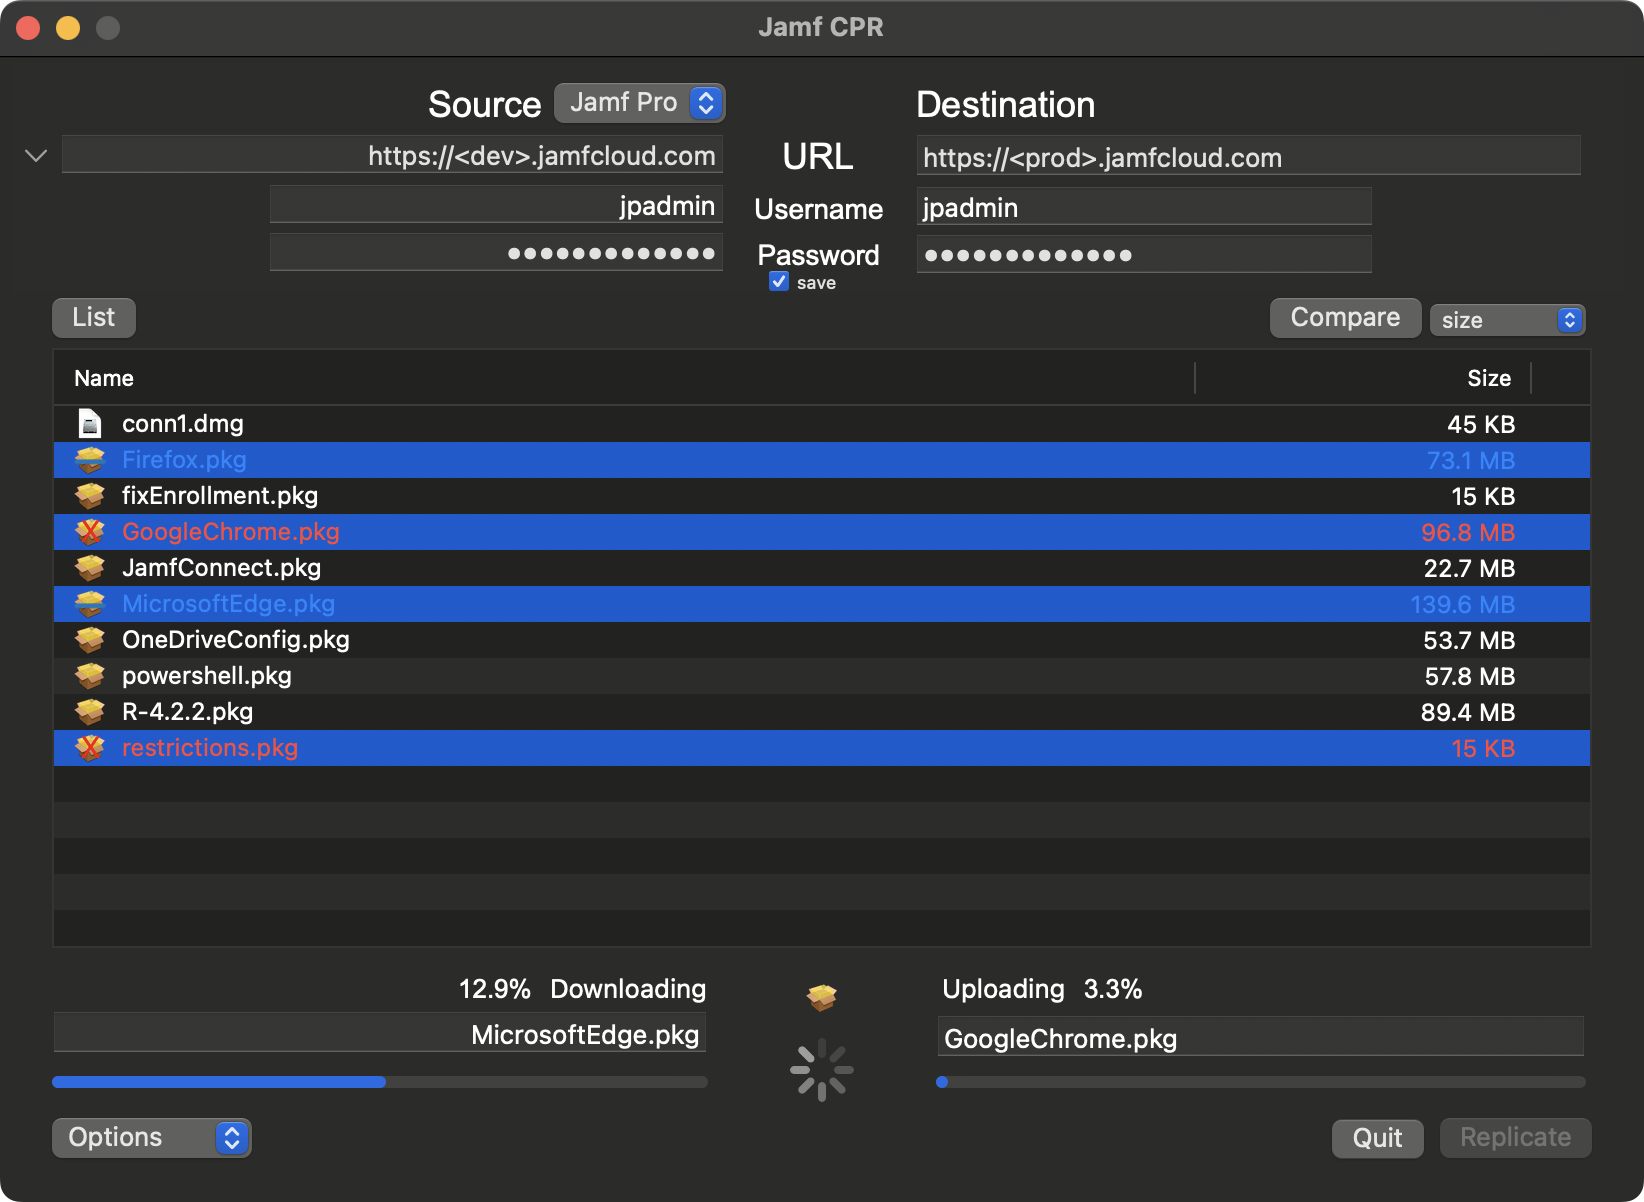
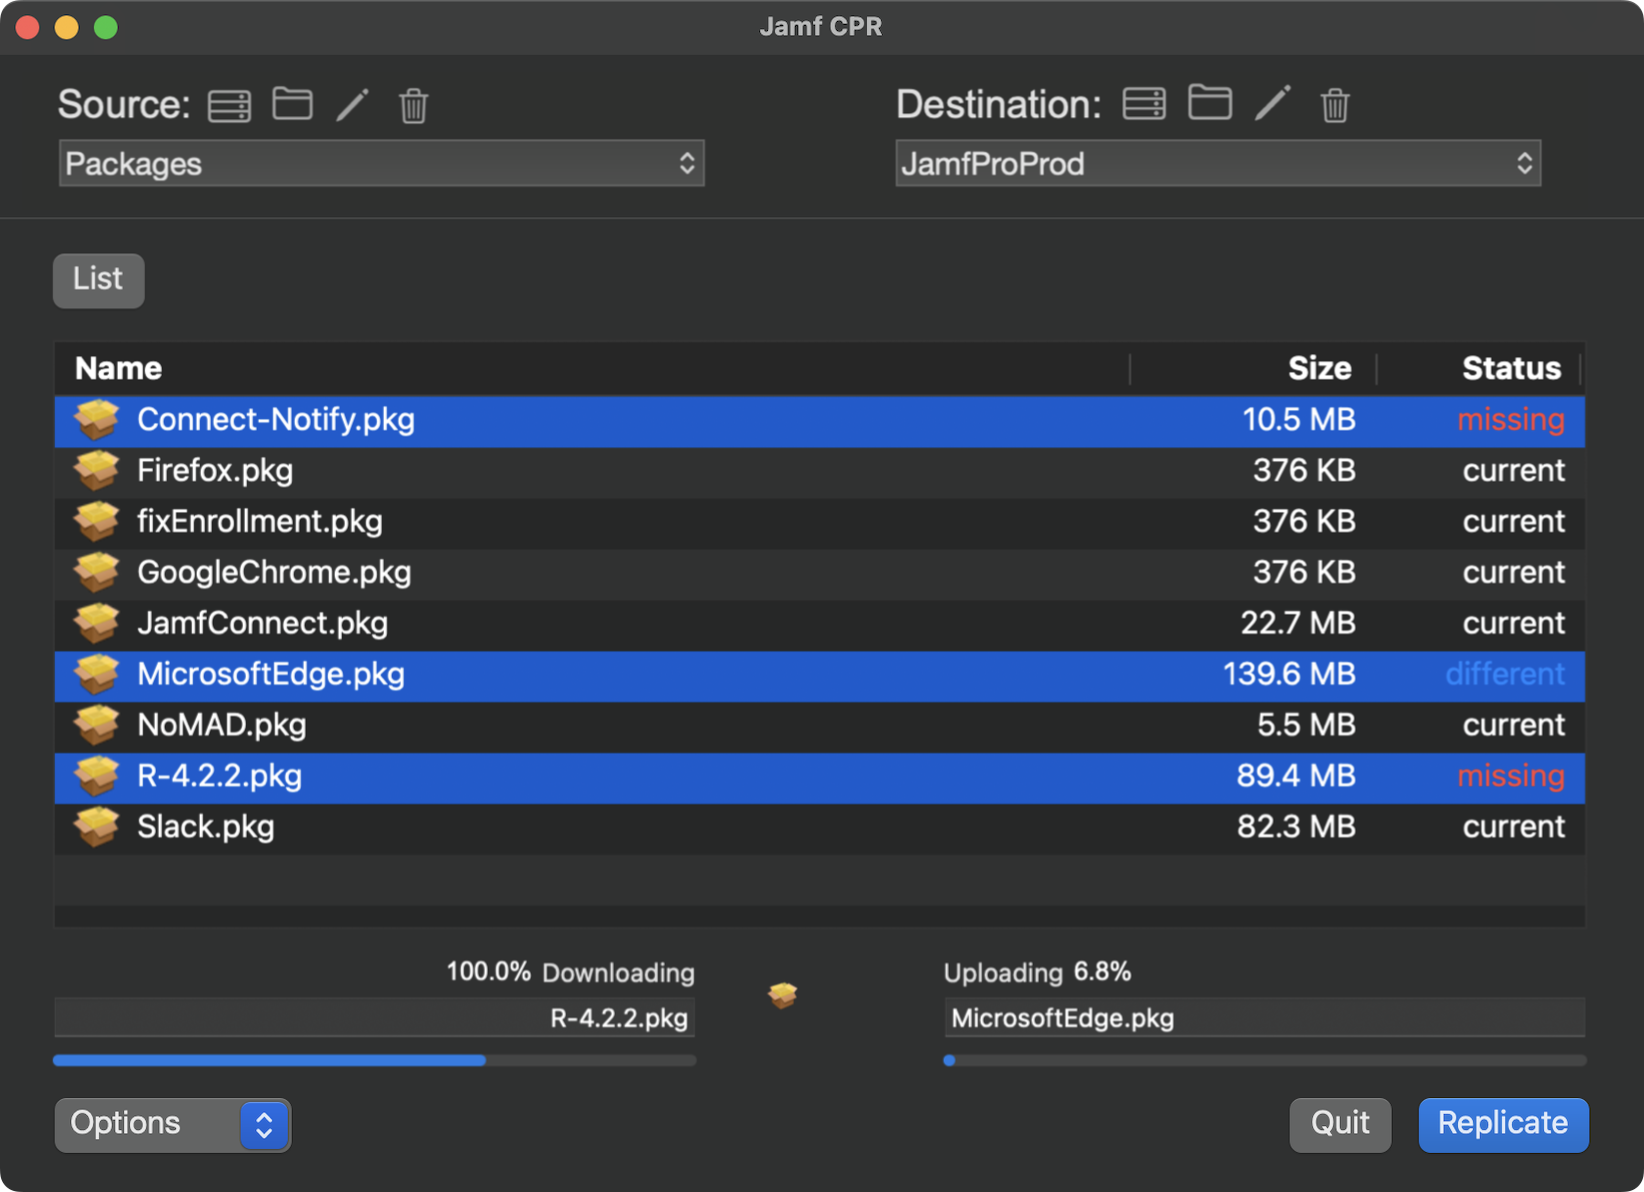
update readme

diff --git a/README.md b/README.md
@@ -4,46 +4,23 @@ Download: [jamfcpr](https://github.com/BIG-RAT/jamfcpr/releases/latest/download/
 
 ![alt text](./images/jamfcpr.png "jamfcpr")
 
-Copy packages from a directory (local/mounted share/drive) or from one JCDS to another JCDS with jamfcpr.app.  **It is required the the destination JCDS be marked as the principal distribution server**.  
-![alt text](./images/principal.png "principal")
+Copy packages from a directory (local/mounted share/drive) or from one JCDS to another JCDS/directory/share with the jamfCPR app.  Shares can include local distribution points.  Note, shares must be mounted in advance of replicating.
 <br><br>
-In addition, verify connectivity if no packages have been uploaded.
+Verify connectivity if no packages have been uploaded.
 
 ![alt text](./images/test.png "test")
-<br><br><br><br>
-
-You're able to replicate packages using the following:
-
-* Browse to a local directory or mounted share.
-* Enter the URL of a Jamf Server with an on premise distribution point (DP) as the primary.  Click the List button and the DP is mounted and available packages are displayed.
-* Enter the URL of a Jamf Server with a JCDS as the primary in the Source URL field.  Click the List button and available packages on the JCDS will be listed.
-* Hold the option key while clicking the List button to select a non-primary distribution point to replicate from.
-
-![alt text](./images/select.png "select")
-* Holding the option key again while clicking the List button will hide the Select button and revert back to the primary distribution point.
-<br><br>
-
-Be aware you may need to approve access to mounted/network volumes if that is where the packages reside.
-
-![alt text](./images/networkVolume.png "allow access to network volume")
 <br><br>
 
 
-Packages not currently on the destination JCDS are identified by red text and with a red X through the icon.  To identify packages that differ from the source select the package(s), then the attribute (checksum or size) you wish to use for the comparison, then click the Compare button.  If comparing by checksum be aware this can take a while as the checksum is generated for packages stored locally or on a mounted share.  Checksums for packages stored in the cloud do not need to be calulated as they already exist.
+Packages can be sorted by name, size, or status.  The status column makes it easy to see what packages need updating.
+<br><br>
 
-
-![alt text](./images/compare.png "compare")
-
-The text of missing packages appear in red, their icon will have a red X over it: ![alt text](./images/pkgIcon32-m.png "missing")
-
-If the selected attribute used to compare packages differ, the text will appear blue while the icon has blue line through it: ![alt text](./images/pkgIcon32-c.png "missing")<br><br>
-
-Once you have a list of packages from the source server select the package(s) you wish to replicate and click the Replicate button.  For the first two methods packages are replicated from the directory/share to the JCDS.  For the last method, where a JCDS is the source, packages are downloaded to ~/Downloads/jamfcpr/, then uploaded to the destination JCDS.  By default, once the upload is complete the local copy is deleted.  This behavior can be changed by selecting Save from the Options button.  In addition you're able to select Save Only, i.e. packages will only be downloaded.
+Once you have a list of packages from the source server select the package(s) you wish to replicate and click the Replicate button.  For the first two methods packages are replicated from the source JCDS/directory/share to the destination JCDS/directory/share.  For the last method, where a JCDS is the source, packages are downloaded to ~/Downloads/jamfcpr/, then uploaded to the destination JCDS.  By default, once the upload is complete the local copy is deleted.  This behavior can be changed by selecting Save from the Options button.  In addition you're able to select Save Only, i.e. packages will only be downloaded.
 Checksums are used to determine if the package to upload differs from what is already on the JCDS. 
 
 * To override this behavior, and force package(s) to sync, select "Force Sync" under the Options button.
 
-Note, percents shown represent percent of current file being uploaded/downloaded.  The status bars represent the progress of all transfers.  
+Note, percents shown represent percent of current file being uploaded/downloaded.  The status bars below the downloading/uploading text fields represent the progress of all transfers.  
 
 * It can take several minutes for packages to show as available (Jamf Pro syncs with the JCDS once an hour), please be patient waiting for the 'refresh' button to disappear.  The logs can be checked to verify the upload, should see something similar to:
 
@@ -55,9 +32,13 @@ Note, percents shown represent percent of current file being uploaded/downloaded
     20210512_050023 Status: READY
 ```
 
-Application log is available in ~/Library/Logs/jamfcpr/.  You can quickly access the logs folder from the menu bar, View --> Show Logs or ⌘ L.
+Application log is available in ~/Library/Logs/jamfcpr/.  You can quickly access the logs folder from the menu bar, View --> Show Logs or ⌘-L.
+
+View the Wiki for additinal information.
 
 ## History
+
+- 2024-01-02 v3.5.0:  Redesign of the interface. Updated to be compatible with JCDS2 (only).  Enable command line usage.
 
 - 2022-11-19 v3.5.0:  Fix issue with bearer token only authentication to the Classic API.  Changes to the UI, ability to hide username/password fields.  Modify permissions check, user needs User Jamf Admin and Save With Jamf Admin privileges to migrate packages.  Add information (when it was uploaded, account used to upload, and that is was uploaded with jamfCPR) to the Notes section for a package in Jamf Pro.
 
